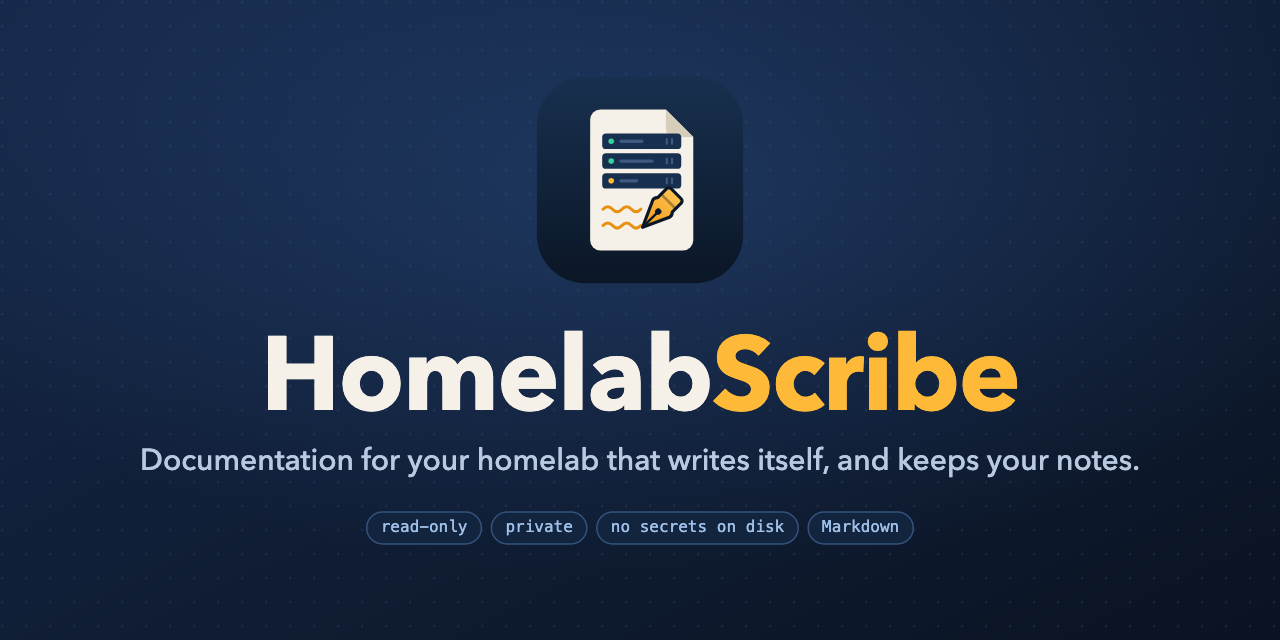
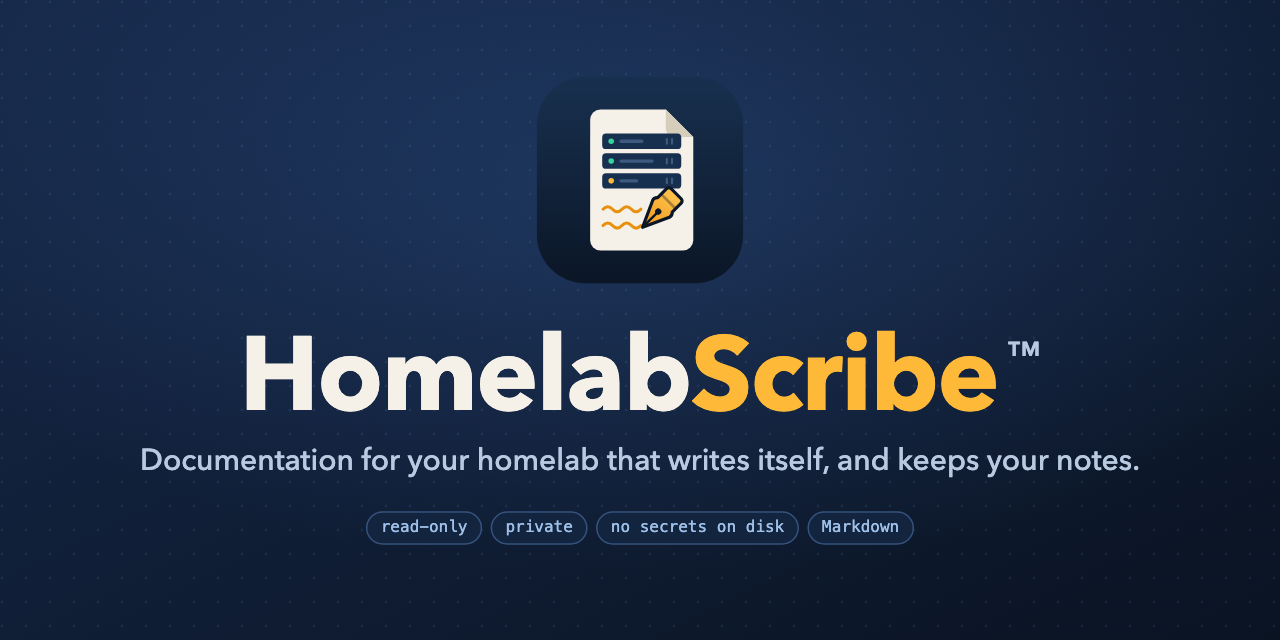
Use HomelabScribe™ in README, docs and brand images (#4)
Marks the project name with the trademark symbol, adds TRADEMARKS.md, and points the package homepage at homelabscribe.com.

Changed region(s): [[0.1875, 0.5, 0.8125, 0.6562]]

diff --git a/README.md b/README.md
@@ -1,5 +1,5 @@
 <h1 align="center">
-  <img src="docs/assets/banner.png" alt="HomelabScribe: documentation for your homelab that writes itself, and keeps your notes" width="100%">
+  <img src="docs/assets/banner.png" alt="HomelabScribe™: documentation for your homelab that writes itself, and keeps your notes" width="100%">
 </h1>
 
 [![CI](https://github.com/HoneyBearTech/homelabscribe/actions/workflows/ci.yml/badge.svg)](https://github.com/HoneyBearTech/homelabscribe/actions/workflows/ci.yml)
@@ -12,7 +12,7 @@
 
 **Documentation for your homelab that writes itself, and keeps your notes.**
 
-HomelabScribe scans your Docker hosts (and, with Pro, your Proxmox cluster) and writes readable Markdown docs: one page per service, one per host, and an overview. Run it again tomorrow and the docs update themselves, while anything you wrote in a page's **Notes** section stays exactly as you left it.
+HomelabScribe™ scans your Docker hosts (and, with Pro, your Proxmox cluster) and writes readable Markdown docs: one page per service, one per host, and an overview. Run it again tomorrow and the docs update themselves, while anything you wrote in a page's **Notes** section stays exactly as you left it.
 
 It drops straight into an Obsidian vault, a Git repo, or any Markdown viewer.
 
@@ -146,3 +146,7 @@ Architecture: collectors (Docker, Proxmox) → enrichment (app catalog, labels) 
 ## License
 
 The core is [AGPL-3.0](LICENSE). Everything in `src/homelabscribe/pro/` is source-available under the [HomelabScribe Pro License](src/homelabscribe/pro/LICENSE-COMMERCIAL.md) and needs a Pro key to use.
+
+## Trademarks
+
+HomelabScribe™ and its logo are trademarks of HoneyBearTech. The code licenses do not grant rights to the name or logo; see [TRADEMARKS.md](TRADEMARKS.md).

diff --git a/TRADEMARKS.md b/TRADEMARKS.md
@@ -1,0 +1,18 @@
+# Trademarks
+
+**HomelabScribe™** and the HomelabScribe logo and banner are claimed as unregistered trademarks of HoneyBearTech.
+
+The source code is licensed separately: the core under [AGPL-3.0](LICENSE) and `src/homelabscribe/pro/` under the [HomelabScribe Pro License](src/homelabscribe/pro/LICENSE-COMMERCIAL.md). Those licenses cover the code. They do not grant any right to use the name or logo as a trademark.
+
+## You may
+
+- Refer to the project by name, for example "works with HomelabScribe" or "a plugin for HomelabScribe".
+- Distribute unmodified copies of the software under its name.
+- Use the name when writing about, reviewing or linking to the project.
+
+## Please don't
+
+- Use the name or logo for a modified version, a fork that you distribute, or a different product. Pick your own name and artwork.
+- Suggest that your project, product or service is the official HomelabScribe, or is endorsed by it.
+
+Questions: open an [issue](https://github.com/HoneyBearTech/homelabscribe/issues).

diff --git a/docs/accessibility.md b/docs/accessibility.md
@@ -2,7 +2,7 @@
 
 ## Accessibility
 
-HomelabScribe is a command-line tool that writes plain Markdown; it has no graphical UI. Output is plain text with heading structure and tables, which works with screen readers and any Markdown viewer. CLI output does not rely on color alone (warnings and errors are labelled with the words `skipped:` and `error:`). Diagrams (Pro `topology.md`) are Mermaid text, so the underlying relationships stay readable as text.
+HomelabScribe™ is a command-line tool that writes plain Markdown; it has no graphical UI. Output is plain text with heading structure and tables, which works with screen readers and any Markdown viewer. CLI output does not rely on color alone (warnings and errors are labelled with the words `skipped:` and `error:`). Diagrams (Pro `topology.md`) are Mermaid text, so the underlying relationships stay readable as text.
 
 ## Internationalization
 

diff --git a/docs/README.md b/docs/README.md
@@ -1,4 +1,4 @@
-# HomelabScribe documentation
+# HomelabScribe™ documentation
 
 | Document | What it covers |
 | --- | --- |
@@ -15,4 +15,4 @@
 | [Roadmap](roadmap.md) | The next ~12 months, and what HomelabScribe will not do |
 | [Accessibility and internationalization](accessibility.md) | Status for a CLI that writes Markdown |
 
-Project policies: [Security policy](../SECURITY.md) · [Contributing](../CONTRIBUTING.md) · [Governance](../GOVERNANCE.md) · [Support](../SUPPORT.md) · [Changelog](../CHANGELOG.md)
+Project policies: [Security policy](../SECURITY.md) · [Contributing](../CONTRIBUTING.md) · [Governance](../GOVERNANCE.md) · [Support](../SUPPORT.md) · [Changelog](../CHANGELOG.md) · [Trademarks](../TRADEMARKS.md)

diff --git a/docs/architecture.md b/docs/architecture.md
@@ -5,7 +5,7 @@
 | Actor | Does |
 | --- | --- |
 | **Operator** | Writes `homelabscribe.yaml`, runs `homelabscribe run` (or schedules it), reads and annotates the Markdown |
-| **HomelabScribe** | Reads Docker/Proxmox state, writes snapshots and Markdown. Never changes a monitored system |
+| **HomelabScribe™** | Reads Docker/Proxmox state, writes snapshots and Markdown. Never changes a monitored system |
 | **Docker daemon / socket proxy** | Answers read-only API calls (containers, info, networks) |
 | **Proxmox API** | Answers read-only calls for VMs and LXCs (Pro) |
 | **Maintainer** | Signs Pro license keys offline with a private key that is never in the repository |

diff --git a/SUPPORT.md b/SUPPORT.md
@@ -6,7 +6,7 @@
 - **Something is broken:** open a bug report and attach `homelabscribe doctor` output.
 - **Security issue:** follow [SECURITY.md](SECURITY.md); do not post it publicly.
 
-HomelabScribe is maintained by one person in spare time. Expect a first reply within about a week; there is no guaranteed response time for free support.
+HomelabScribe™ is maintained by one person in spare time. Expect a first reply within about a week; there is no guaranteed response time for free support.
 
 ## Supported versions and maintenance window
 

diff --git a/docs/quick-start.md b/docs/quick-start.md
@@ -11,7 +11,7 @@ Open `homelabscribe-demo/index.md`. It is a made-up homelab with every Pro page 
 
 ## 2. Scan your own Docker host
 
-1. Run a read-only [socket proxy](installing.md#docker-compose) next to Docker (or point at the socket directly if HomelabScribe runs on the same machine).
+1. Run a read-only [socket proxy](installing.md#docker-compose) next to Docker (or point at the socket directly if HomelabScribe™ runs on the same machine).
 2. Copy `homelabscribe.example.yaml` to `homelabscribe.yaml` and set your host:
 
    ```yaml

diff --git a/docs/roadmap.md b/docs/roadmap.md
@@ -22,7 +22,7 @@ Plans for roughly the next twelve months. Dates are intentions, not promises; th
 - Keep the container base image pinned by digest (Dependabot updates it)
 - Reproducible release builds where practical
 
-## What HomelabScribe will not do
+## What HomelabScribe™ will not do
 - Change, restart, create or delete anything on your hosts. It is read-only by design
 - Phone home: no telemetry, update checks or license calls
 - Store secret values (env var values, tokens, passwords)

diff --git a/docs/user-guide/README.md b/docs/user-guide/README.md
@@ -14,7 +14,7 @@ Your notes here.
 <!-- homelabscribe:notes:end -->
 ```
 
-Write inside the block. HomelabScribe rewrites everything else but copies the block forward. If a service disappears and its page has notes, the page moves to `archive/`.
+Write inside the block. HomelabScribe™ rewrites everything else but copies the block forward. If a service disappears and its page has notes, the page moves to `archive/`.
 
 ## Naming and describing things
 

diff --git a/SECURITY.md b/SECURITY.md
@@ -2,7 +2,7 @@
 
 ## Supported versions
 
-Security fixes go to the latest released minor version. While HomelabScribe is pre-1.0, older versions are not patched; upgrade instead. See [SUPPORT.md](SUPPORT.md).
+Security fixes go to the latest released minor version. While HomelabScribe™ is pre-1.0, older versions are not patched; upgrade instead. See [SUPPORT.md](SUPPORT.md).
 
 ## Reporting a vulnerability
 

diff --git a/docs/assurance-case.md b/docs/assurance-case.md
@@ -1,6 +1,6 @@
 # Assurance case
 
-Claim: HomelabScribe can be pointed at a Docker host or Proxmox cluster without changing it, leaking secret values, or contacting anyone else, and its releases can be verified.
+Claim: HomelabScribe™ can be pointed at a Docker host or Proxmox cluster without changing it, leaking secret values, or contacting anyone else, and its releases can be verified.
 
 ## Threat model
 

diff --git a/GOVERNANCE.md b/GOVERNANCE.md
@@ -1,6 +1,6 @@
 # Governance
 
-HomelabScribe is a small open-core project run by one maintainer. This document says who decides what, who has access, and what happens if the maintainer is unavailable.
+HomelabScribe™ is a small open-core project run by one maintainer. This document says who decides what, who has access, and what happens if the maintainer is unavailable.
 
 ## Roles
 
